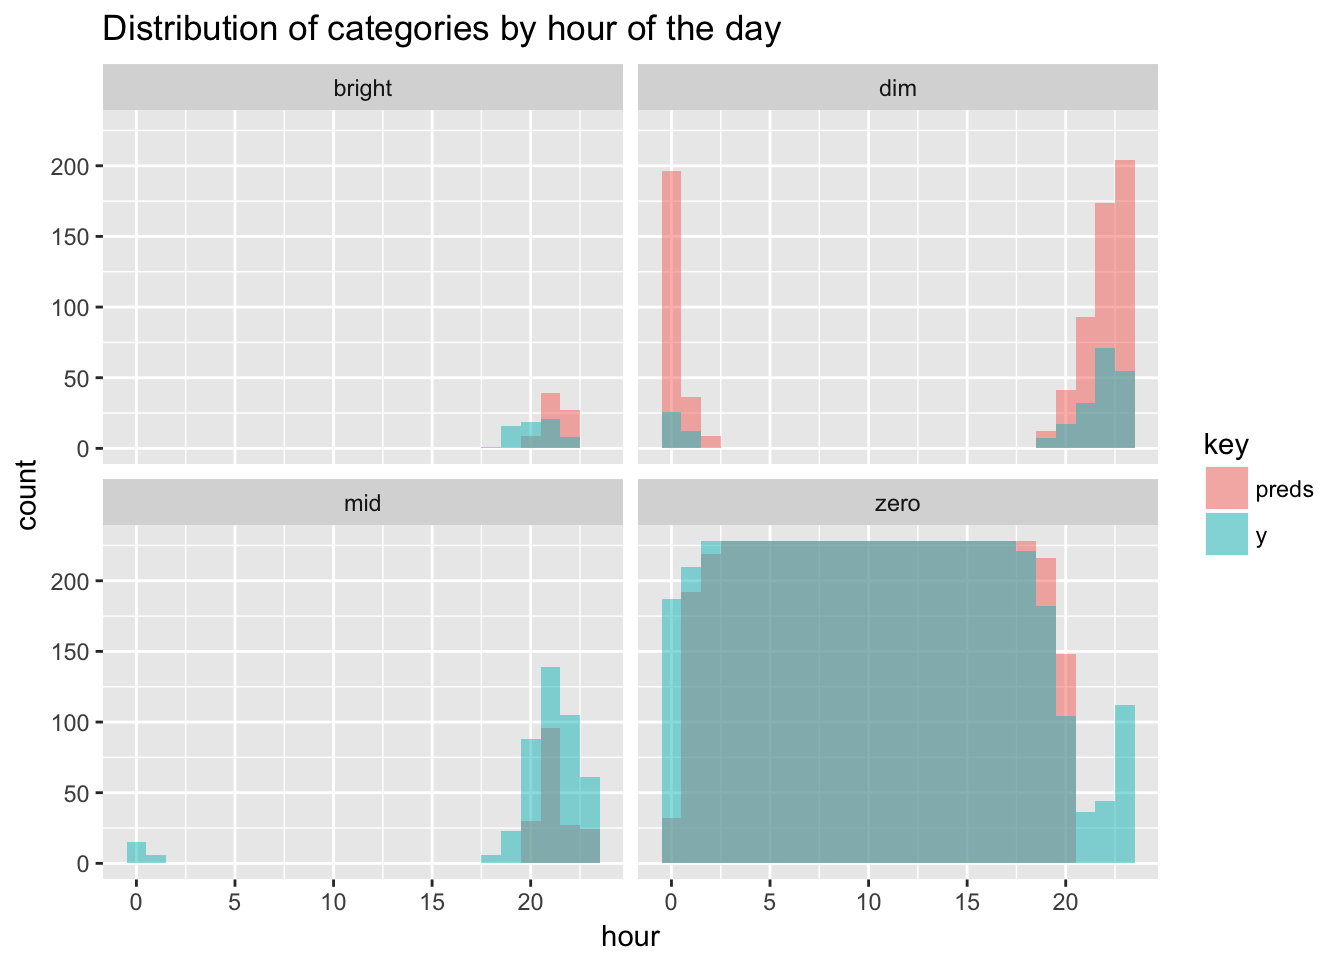
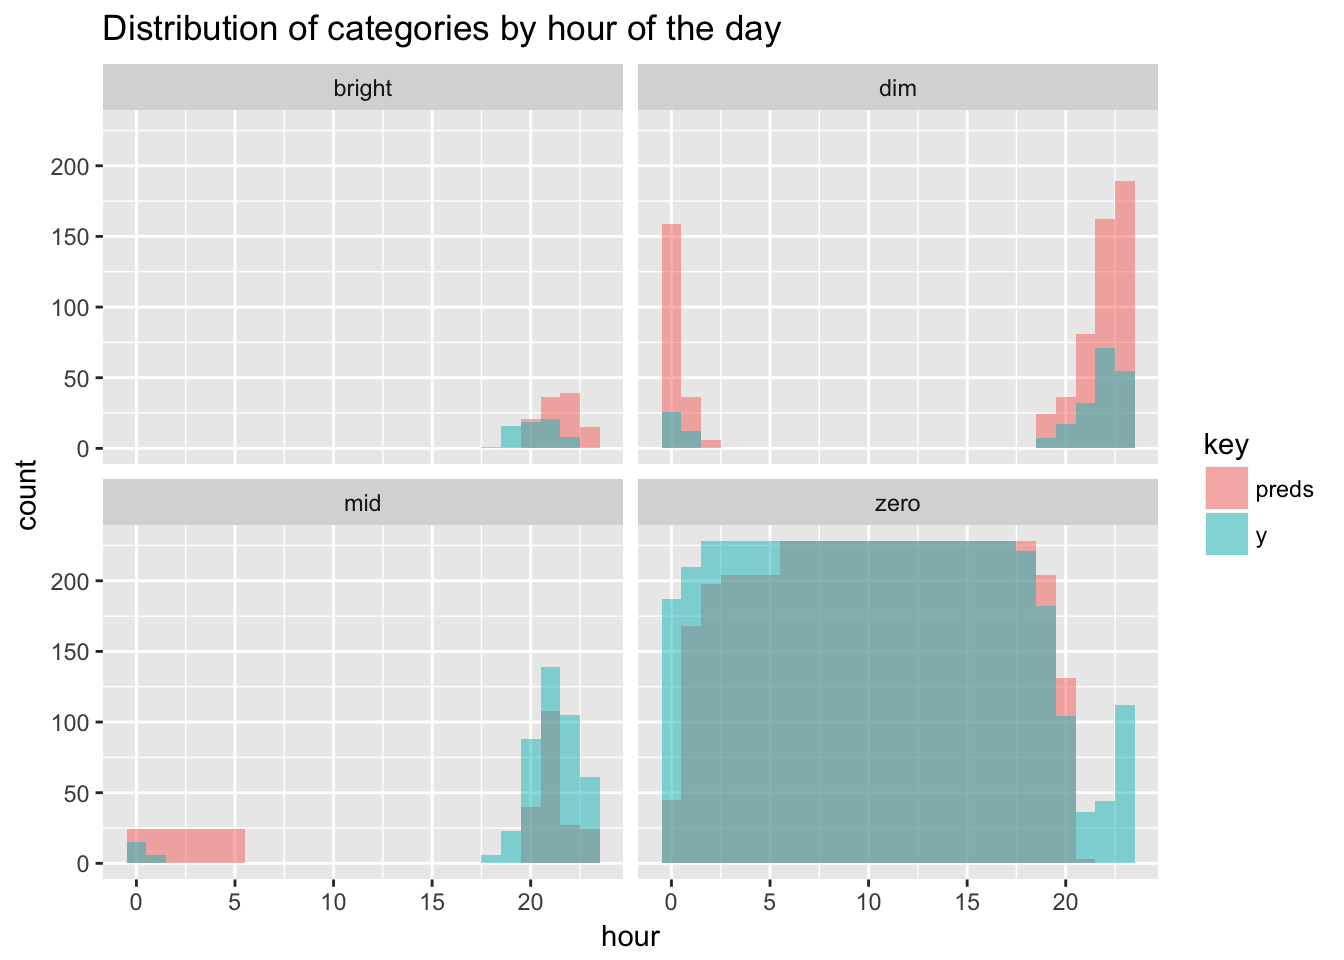
new talk, small fixes

diff --git a/blog/interpretable-gdpr-classifiers/index.html b/blog/interpretable-gdpr-classifiers/index.html
@@ -44,10 +44,10 @@
 
 
     
-    <link rel="stylesheet" href="../../css/reset.css?t=1529439650">
-    <link rel="stylesheet" href="../../css/main.css?t=1529439650">
+    <link rel="stylesheet" href="../../css/reset.css?t=1529489867">
+    <link rel="stylesheet" href="../../css/main.css?t=1529489867">
     
-        <link rel="stylesheet" href="../../css/override.css?t=1529439650">
+        <link rel="stylesheet" href="../../css/override.css?t=1529489867">
     
 
 
@@ -317,7 +317,7 @@ plot(vi_glm, vi_svm, vi_gbm)</code></pre>
 <li>Length of the interval means larger loss -&gt; more important variable.</li>
 </ul>
 <p>Looking at the above plot, it confirms that gbm has the lowest overall error rate and there are words shared among the three plots such as <strong>shield</strong>, <strong>controller</strong> or <strong>regulation</strong> that appear in all three plots.</p>
-<p>Knowing which variables are important is only the half the story; we would also like to investigate the nature of relationship between the predictor and the prediction. DALEX implements <a href="https://journal.r-project.org/archive/2017/RJ-2017-016/RJ-2017-016.pdf">Partial Dependence Plots</a><a href="#fn2" class="footnoteRef" id="fnref2"><sup>2</sup></a> that show how different values of a numeric variable affect the prediction in isolation. We only need to change our prediction function to return probabilities,</p>
+<p>Knowing which variables are important is only the half the story; we would also like to investigate the nature of relationship between the predictor and the prediction. DALEX implements <a href="https://journal.r-project.org/archive/2017/RJ-2017-016/RJ-2017-016.pdf">Partial Dependence Plots</a> <a href="#fn2" class="footnoteRef" id="fnref2"><sup>2</sup></a> that show how different values of a numeric variable affect the prediction in isolation. We only need to change our prediction function to return probabilities,</p>
 <pre class="r"><code>p_fun &lt;- function(object, newdata){
         predict(object, newdata=newdata, type=&quot;prob&quot;)[,1]
 }</code></pre>
@@ -342,7 +342,7 @@ plot(pdp_glm, pdp_svm, pdp_gbm)</code></pre>
 <hr />
 <ol>
 <li id="fn1"><p>Corpus of 1,010 privacy policies from the top websites ranked on Alexa.com, created as part of: F. Liu, R. Ramanath, N. Sadeh, N.A. Smith. A Step Towards Usable Privacy Policy: Automatic Alignment of Privacy Statements. Proceedings of the 25th International Conference on Computational Linguistics (COLING). 2014.<a href="#fnref1">↩</a></p></li>
-<li id="fn2"><p>Greenwell, Brandon M. 2017. “Pdp: An R Package for Constructing Partial Dependence Plots.” The R Journal 9 (1):421–36. <a href="https://journal.r-project.org/archive/2017/RJ-2017-016/index.html" class="uri">https://journal.r-project.org/archive/2017/RJ-2017-016/index.html</a>.)) for a black box<a href="#fnref2">↩</a></p></li>
+<li id="fn2"><p>Greenwell, Brandon M. 2017. “Pdp: An R Package for Constructing Partial Dependence Plots.” The R Journal 9 (1):421–36. <a href="https://journal.r-project.org/archive/2017/RJ-2017-016/index.html" class="uri">https://journal.r-project.org/archive/2017/RJ-2017-016/index.html</a>.<a href="#fnref2">↩</a></p></li>
 </ol>
 </div>
 

diff --git a/blog/self-learning-hue-lights/index.html b/blog/self-learning-hue-lights/index.html
@@ -44,10 +44,10 @@
 
 
     
-    <link rel="stylesheet" href="../../css/reset.css?t=1529439650">
-    <link rel="stylesheet" href="../../css/main.css?t=1529439650">
+    <link rel="stylesheet" href="../../css/reset.css?t=1529489867">
+    <link rel="stylesheet" href="../../css/main.css?t=1529489867">
     
-        <link rel="stylesheet" href="../../css/override.css?t=1529439650">
+        <link rel="stylesheet" href="../../css/override.css?t=1529489867">
     
 
 
@@ -277,10 +277,10 @@ gbmFit &lt;- train(y ~ ., data = training,
 table(preds, testing$y)</code></pre>
 <pre><code>##         
 ## preds     dim  mid bright zero
-##   dim     115  220     31  399
-##   mid      44   76      6   51
-##   bright   20   49      0    6
-##   zero     41   98     28 4288</code></pre>
+##   dim     101  204     24  364
+##   mid      44   85     15  199
+##   bright   32   59      0   20
+##   zero     43   95     26 4161</code></pre>
 <p>Most mistakes are made trying to classify bright and mid. The model gets 0 bright values right and only manages to do so correctly 14% of the time for mid. But when do errors happen? To dig a little deeper let’s look at the previous histogram of categories by hour again for the test set, but now with the predictions overlaid on top.</p>
 <p><img src="../../blog/2017/2017-05-14-hue_files/figure-html/unnamed-chunk-11-1.png" width="672" /></p>
 <p>Bright values were always going be hard to guess, but the model at least comes close in terms of hours, but off on the exact days. The majority of misclassification comes from overzealously predicting dim in the evening and around midnight, when it should really be either mid or zero. That looks like a workable scenario for me.</p>

diff --git a/blog/a-tidy-text-analysis-of-rick-and-morty/index.html b/blog/a-tidy-text-analysis-of-rick-and-morty/index.html
@@ -44,10 +44,10 @@
 
 
     
-    <link rel="stylesheet" href="../../css/reset.css?t=1529439650">
-    <link rel="stylesheet" href="../../css/main.css?t=1529439650">
+    <link rel="stylesheet" href="../../css/reset.css?t=1529489867">
+    <link rel="stylesheet" href="../../css/main.css?t=1529489867">
     
-        <link rel="stylesheet" href="../../css/override.css?t=1529439650">
+        <link rel="stylesheet" href="../../css/override.css?t=1529489867">
     
 
 
@@ -231,9 +231,9 @@ bigram_graph &lt;- df %&gt;%
 <pre><code>## Warning in graph_from_data_frame(.): In `d&#39; `NA&#39; elements were replaced
 ## with string &quot;NA&quot;</code></pre>
 <pre class="r"><code>print(bigram_graph)</code></pre>
-<pre><code>## IGRAPH a51b3dd DN-- 311 283 -- 
+<pre><code>## IGRAPH 464b606 DN-- 311 283 -- 
 ## + attr: name (v/c), season (e/c), n (e/n)
-## + edges from a51b3dd (vertex names):
+## + edges from 464b606 (vertex names):
 ## [1] NA      -&gt;NA      NA      -&gt;NA      NA      -&gt;NA      tiny    -&gt;rick   
 ## [5] yeah    -&gt;yeah   
 ##  [ reached getOption(&quot;max.print&quot;) -- omitted 21 entries ]

diff --git a/about/index.html b/about/index.html
@@ -44,10 +44,10 @@
 
 
     
-    <link rel="stylesheet" href="../css/reset.css?t=1529439650">
-    <link rel="stylesheet" href="../css/main.css?t=1529439650">
+    <link rel="stylesheet" href="../css/reset.css?t=1529489867">
+    <link rel="stylesheet" href="../css/main.css?t=1529489867">
     
-        <link rel="stylesheet" href="../css/override.css?t=1529439650">
+        <link rel="stylesheet" href="../css/override.css?t=1529489867">
     
 
 
@@ -151,6 +151,8 @@
 <h3 id="talks">Talks</h3>
 
 <p><a href="https://speakerdeck.com/mtoto/building-data-products-at-home-automating-philips-hue-lights">Building Data Products at Home: Self-learning Hue Lights</a>; 2017 Budapest BI Conference.</p>
+
+<p><a href="https://speakerdeck.com/mtoto/robust-datapipelines-with-drake-and-docker">Robust Data Pipelines with drake and Docker</a>, eRum 2018.</p>
 
             </div>
         </div>

diff --git a/blog/an-animated-neural-net-implementation/index.html b/blog/an-animated-neural-net-implementation/index.html
@@ -44,10 +44,10 @@
 
 
     
-    <link rel="stylesheet" href="../../css/reset.css?t=1529439650">
-    <link rel="stylesheet" href="../../css/main.css?t=1529439650">
+    <link rel="stylesheet" href="../../css/reset.css?t=1529489867">
+    <link rel="stylesheet" href="../../css/main.css?t=1529489867">
     
-        <link rel="stylesheet" href="../../css/override.css?t=1529439650">
+        <link rel="stylesheet" href="../../css/override.css?t=1529489867">
     
 
 

diff --git a/blog/analyzing-my-spotify-listening-history/index.html b/blog/analyzing-my-spotify-listening-history/index.html
@@ -44,10 +44,10 @@
 
 
     
-    <link rel="stylesheet" href="../../css/reset.css?t=1529439650">
-    <link rel="stylesheet" href="../../css/main.css?t=1529439650">
+    <link rel="stylesheet" href="../../css/reset.css?t=1529489867">
+    <link rel="stylesheet" href="../../css/main.css?t=1529489867">
     
-        <link rel="stylesheet" href="../../css/override.css?t=1529439650">
+        <link rel="stylesheet" href="../../css/override.css?t=1529489867">
     
 
 

diff --git a/blog/creating-a-spotify-playlist-using-luigi/index.html b/blog/creating-a-spotify-playlist-using-luigi/index.html
@@ -44,10 +44,10 @@
 
 
     
-    <link rel="stylesheet" href="../../css/reset.css?t=1529439650">
-    <link rel="stylesheet" href="../../css/main.css?t=1529439650">
+    <link rel="stylesheet" href="../../css/reset.css?t=1529489867">
+    <link rel="stylesheet" href="../../css/main.css?t=1529489867">
     
-        <link rel="stylesheet" href="../../css/override.css?t=1529439650">
+        <link rel="stylesheet" href="../../css/override.css?t=1529489867">
     
 
 

diff --git a/blog/dockerized-shiny-app-development/index.html b/blog/dockerized-shiny-app-development/index.html
@@ -44,10 +44,10 @@
 
 
     
-    <link rel="stylesheet" href="../../css/reset.css?t=1529439650">
-    <link rel="stylesheet" href="../../css/main.css?t=1529439650">
+    <link rel="stylesheet" href="../../css/reset.css?t=1529489867">
+    <link rel="stylesheet" href="../../css/main.css?t=1529489867">
     
-        <link rel="stylesheet" href="../../css/override.css?t=1529439650">
+        <link rel="stylesheet" href="../../css/override.css?t=1529489867">
     
 
 

diff --git a/blog/starting-a-blogdown/index.html b/blog/starting-a-blogdown/index.html
@@ -44,10 +44,10 @@
 
 
     
-    <link rel="stylesheet" href="../../css/reset.css?t=1529439650">
-    <link rel="stylesheet" href="../../css/main.css?t=1529439650">
+    <link rel="stylesheet" href="../../css/reset.css?t=1529489867">
+    <link rel="stylesheet" href="../../css/main.css?t=1529489867">
     
-        <link rel="stylesheet" href="../../css/override.css?t=1529439650">
+        <link rel="stylesheet" href="../../css/override.css?t=1529489867">
     
 
 

diff --git a/categories/r/index.html b/categories/r/index.html
@@ -44,10 +44,10 @@
 
 
     
-    <link rel="stylesheet" href="../../css/reset.css?t=1529439650">
-    <link rel="stylesheet" href="../../css/main.css?t=1529439650">
+    <link rel="stylesheet" href="../../css/reset.css?t=1529489867">
+    <link rel="stylesheet" href="../../css/main.css?t=1529489867">
     
-        <link rel="stylesheet" href="../../css/override.css?t=1529439650">
+        <link rel="stylesheet" href="../../css/override.css?t=1529489867">
     
 
 

diff --git a/tags/ai/index.html b/tags/ai/index.html
@@ -44,10 +44,10 @@
 
 
     
-    <link rel="stylesheet" href="../../css/reset.css?t=1529439650">
-    <link rel="stylesheet" href="../../css/main.css?t=1529439650">
+    <link rel="stylesheet" href="../../css/reset.css?t=1529489867">
+    <link rel="stylesheet" href="../../css/main.css?t=1529489867">
     
-        <link rel="stylesheet" href="../../css/override.css?t=1529439650">
+        <link rel="stylesheet" href="../../css/override.css?t=1529489867">
     
 
 

diff --git a/tags/async/index.html b/tags/async/index.html
@@ -44,10 +44,10 @@
 
 
     
-    <link rel="stylesheet" href="../../css/reset.css?t=1529439650">
-    <link rel="stylesheet" href="../../css/main.css?t=1529439650">
+    <link rel="stylesheet" href="../../css/reset.css?t=1529489867">
+    <link rel="stylesheet" href="../../css/main.css?t=1529489867">
     
-        <link rel="stylesheet" href="../../css/override.css?t=1529439650">
+        <link rel="stylesheet" href="../../css/override.css?t=1529489867">
     
 
 
